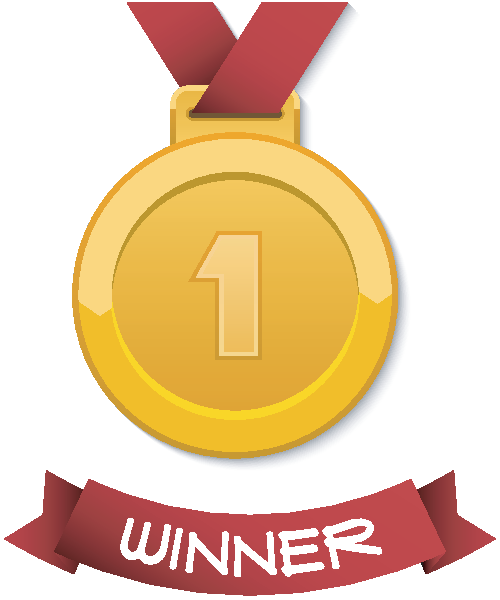
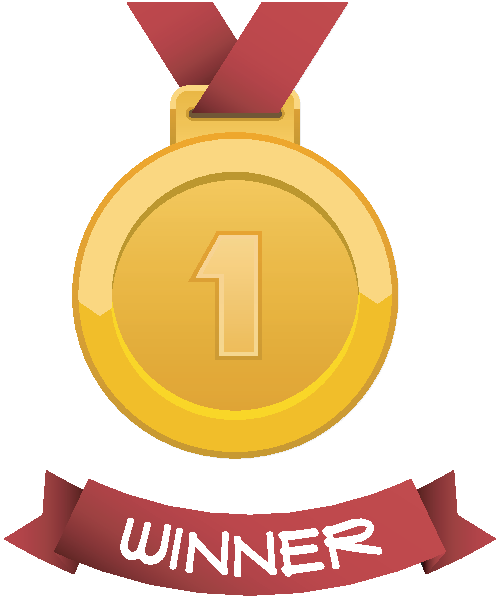
Added rendering of winner texture.

diff --git a/src/mat.cpp b/src/mat.cpp
@@ -79,6 +79,8 @@ bool Mat::Open()
 
 		if (!m_Logo)
 			m_Logo = m_Window.GetRenderer().CreateTexture("assets/logo.png");
+		if (!m_Winner)
+			m_Winner = m_Window.GetRenderer().CreateTexture("assets/winner2.png");
 
 		ZED::Log::Info("Logo loaded");
 
@@ -2019,6 +2021,18 @@ bool Mat::Render(double dt) const
 		RenderScore(dt);
 		RenderTimer(dt);
 		RenderShidos(dt);
+
+		if (HasConcluded() && m_Winner)//Render winner animation
+		{
+			m_Winner->SetSize((float)(0.5 * m_ScalingFactor));
+
+			if (GetResult().m_Winner == Winner::Blue)
+				renderer.RenderTransformed(*m_Winner, (int)(200.0*m_ScalingFactor),
+										   height/2 + (int)(70.0*m_ScalingFactor));
+			else if (GetResult().m_Winner == Winner::White)
+				renderer.RenderTransformed(*m_Winner, width - (int)(m_Winner->GetWidth() * 0.5 * m_ScalingFactor) - (int)(200.0*m_ScalingFactor),
+										   height/2 + (int)(70.0*m_ScalingFactor));
+		}
 
 		m_Graphics["matchtable"].Render(renderer, dt);
 		m_Graphics["mat_name"  ].Render(renderer, dt);

diff --git a/src/mat.h b/src/mat.h
@@ -384,6 +384,7 @@ namespace Judoboard
 
 		mutable ZED::Ref<ZED::Texture> m_Background;
 		mutable ZED::Ref<ZED::Texture> m_Logo;
+		mutable ZED::Ref<ZED::Texture> m_Winner;
 
 		double m_ScalingFactor = 1.0;//Should be 1.0 for 1080p screen, smaller for smaller screen and > 1.0 for larger screens
 	};
